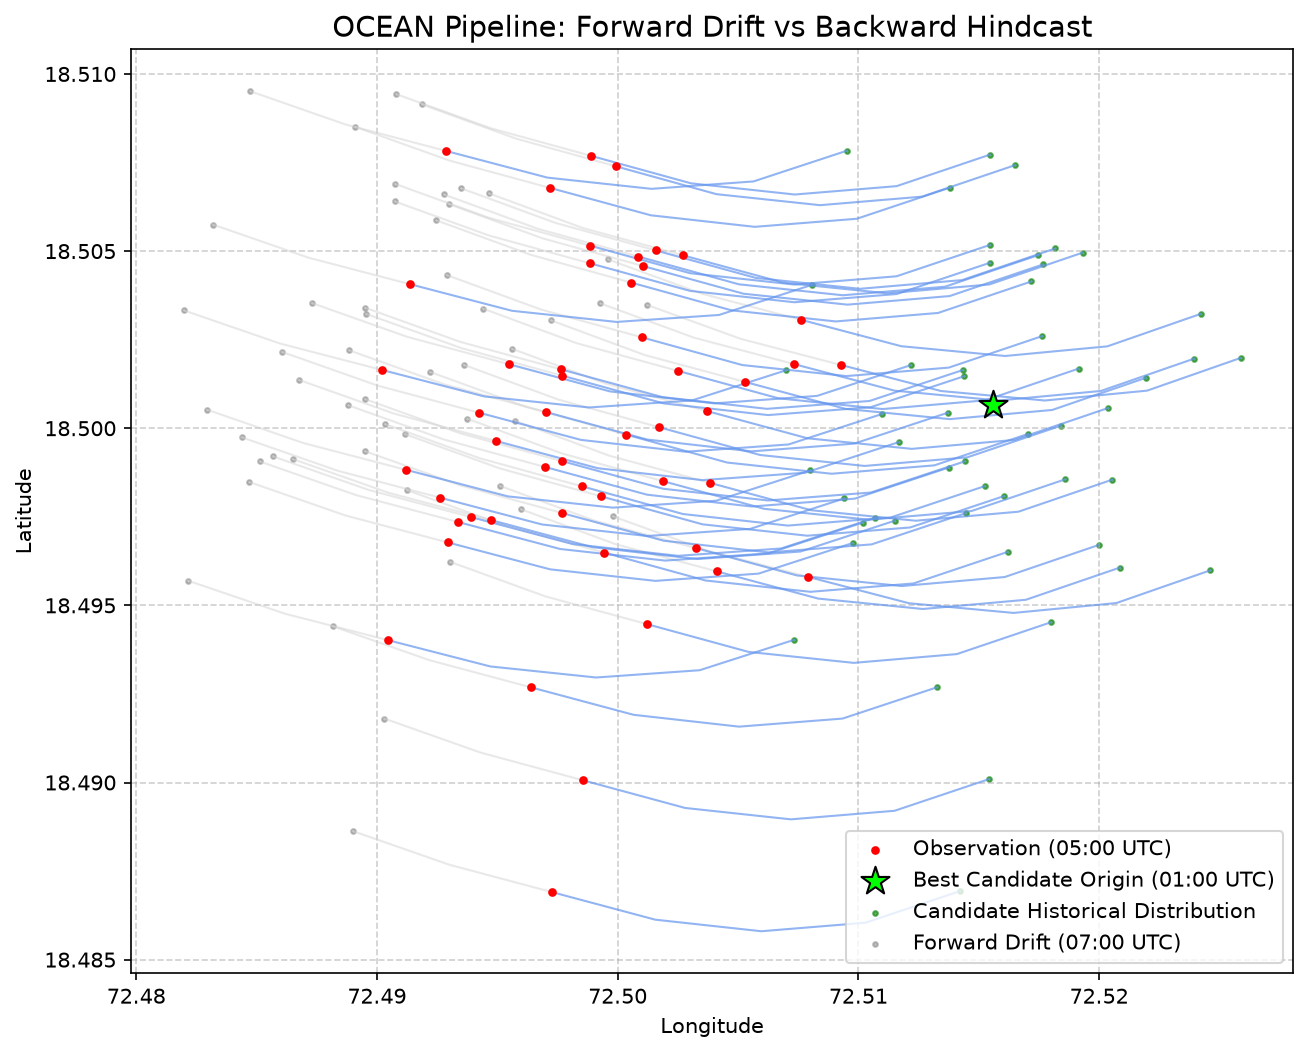
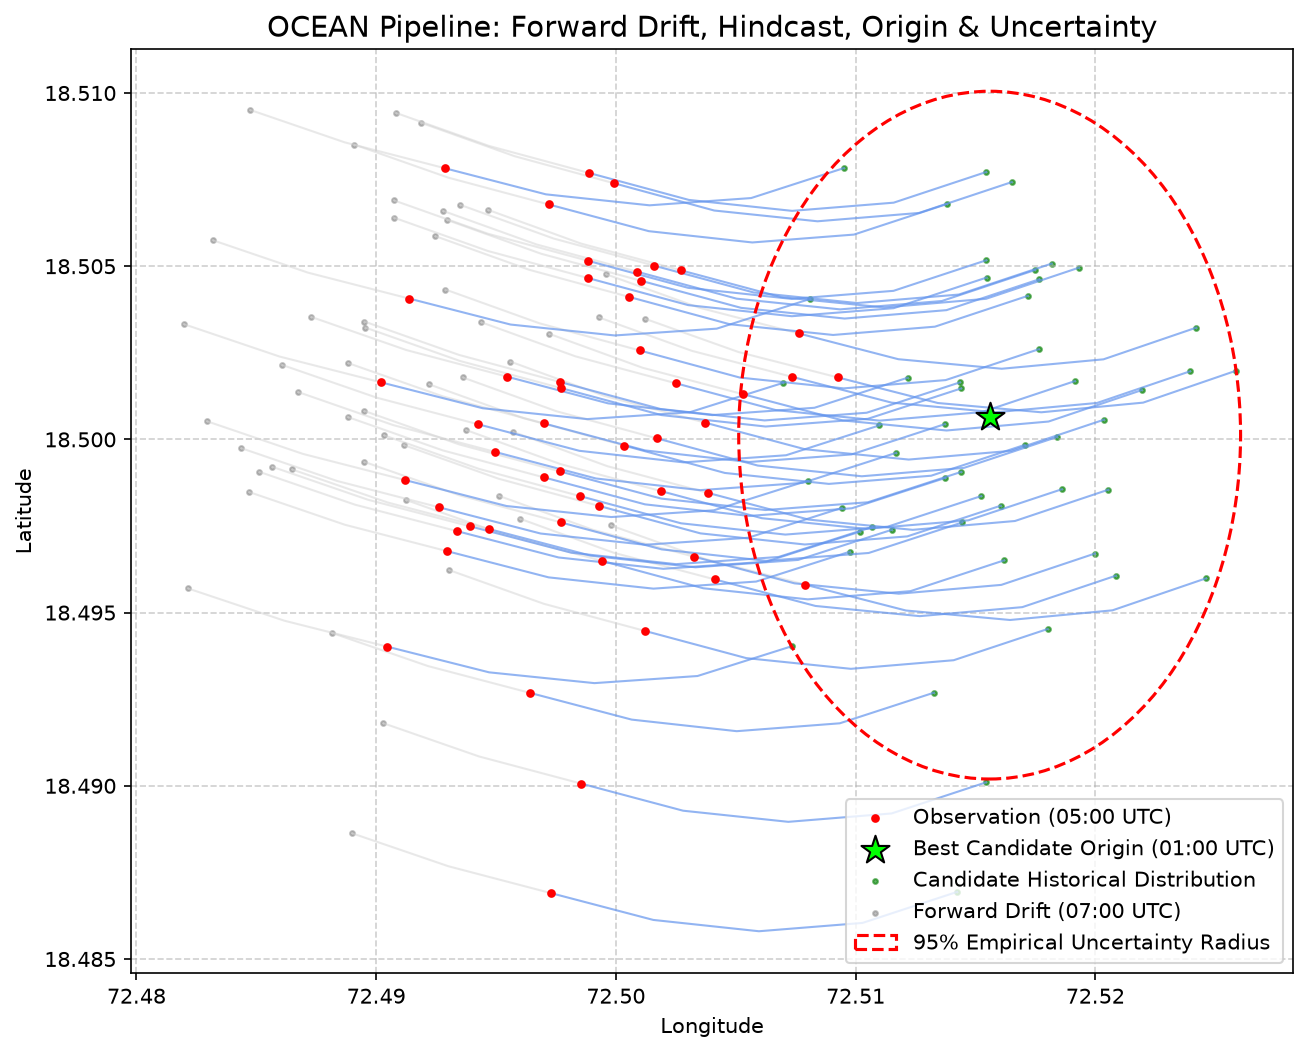
Upgrade ocean pipeline demo with uncertainty visualization

diff --git a/demo/ocean_pipeline_demo.py b/demo/ocean_pipeline_demo.py
@@ -18,11 +18,12 @@ from ocean.time.synchronization import normalize_timestamp
 from ocean.interpolation.environment import interpolate_currents, interpolate_wind
 from ocean.drift import Particle, simulate_particles, hindcast_particles
 from ocean.drift.origin import analyze_origin
+from ocean.drift.uncertainty import calculate_uncertainty
 
 
 def main():
     print("=" * 50)
-    print("OCEAN-04 -> OCEAN-08 DEMO")
+    print("OCEAN-04 -> OCEAN-08 & DRIFT-06 DEMO")
     print("=" * 50)
     
     # 1. Load Environmental Data
@@ -112,9 +113,28 @@ def main():
         print(f"    Latitude: {best_candidate.region.centroid_lat:.4f}")
         print(f"    Longitude: {best_candidate.region.centroid_lon:.4f}")
         print(f"    Relative heuristic origin score: {best_candidate.heuristic_score:.4f}")
+        
+        # DRIFT-06: Uncertainty Analysis
+        print("\nDRIFT-06:")
+        try:
+            unc_result = calculate_uncertainty(df_backward, timestamp=best_candidate.timestamp, confidence_level=0.95)
+            print("  Empirical spatial uncertainty estimate:")
+            print(f"    Timestamp: {unc_result.timestamp}")
+            print(f"    Particle count: {unc_result.particle_count}")
+            print(f"    Centroid: {unc_result.centroid_latitude:.4f} N, {unc_result.centroid_longitude:.4f} E")
+            print(f"    Spread: {unc_result.spread_km:.4f} km")
+            print(f"    95% uncertainty radius: {unc_result.uncertainty_radius_km:.4f} km")
+            print("    Bounds:")
+            print(f"      Latitude: {unc_result.min_latitude:.4f} to {unc_result.max_latitude:.4f}")
+            print(f"      Longitude: {unc_result.min_longitude:.4f} to {unc_result.max_longitude:.4f}")
+        except Exception as e:
+            print(f"  DRIFT-06 Uncertainty Analysis failed: {e}")
+            unc_result = None
+            
     except Exception as e:
         print(f"  OCEAN-08 Analysis failed: {e}")
         best_candidate = None
+        unc_result = None
 
     print("=" * 50)
     
@@ -150,7 +170,23 @@ def main():
     final_fwd = df_forward[df_forward["timestamp"] == t_max]
     ax.scatter(final_fwd["longitude"], final_fwd["latitude"], color="grey", s=5, alpha=0.5, label=f"Forward Drift ({t_max.strftime('%H:%M')} UTC)")
         
-    ax.set_title("OCEAN Pipeline: Forward Drift vs Backward Hindcast", fontsize=14)
+    # DRIFT-06: Draw uncertainty radius
+    if 'unc_result' in locals() and unc_result is not None:
+        import matplotlib.patches as patches
+        # Earth-aware conversion: 1 degree latitude ~ 111.1949 km
+        # 1 degree longitude ~ 111.1949 * cos(latitude) km
+        d_lat = unc_result.uncertainty_radius_km / 111.1949
+        d_lon = unc_result.uncertainty_radius_km / (111.1949 * np.cos(np.radians(unc_result.centroid_latitude)))
+        
+        ellipse = patches.Ellipse(
+            (unc_result.centroid_longitude, unc_result.centroid_latitude),
+            width=2*d_lon, height=2*d_lat,
+            edgecolor='red', facecolor='none', linestyle='--', linewidth=1.5, zorder=6,
+            label="95% Empirical Uncertainty Radius"
+        )
+        ax.add_patch(ellipse)
+
+    ax.set_title("OCEAN Pipeline: Forward Drift, Hindcast, Origin & Uncertainty", fontsize=14)
     ax.set_xlabel("Longitude")
     ax.set_ylabel("Latitude")
     ax.legend(loc="best")
